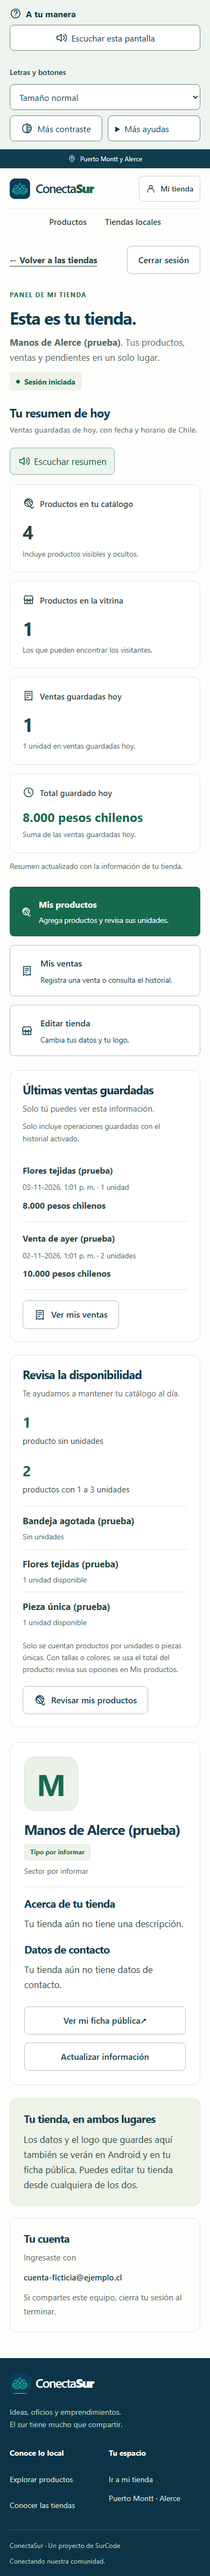
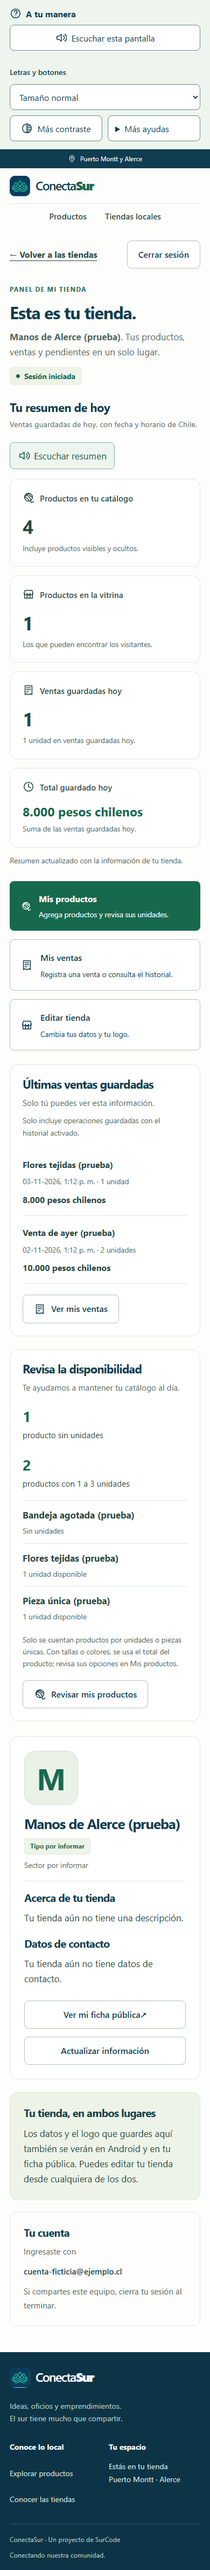
Quitar botón repetido de mi tienda

diff --git a/web/src/public-shops.js b/web/src/public-shops.js
@@ -30,7 +30,7 @@ function imageFallbacks(root) {
   });
 }
 
-function shell(content) {
+function shell(content, { showAccountLink = true } = {}) {
   const account=accountDestination();
   return `<div class="public-site">
     <a class="skip-link" href="#public-content">Ir al contenido</a>
@@ -38,12 +38,12 @@ function shell(content) {
     <header class="public-header">
       <a class="public-brand" href="#inicio" aria-label="ConectaSur, inicio">${brand()}</a>
       <nav class="public-main-links" aria-label="Explorar ConectaSur"><a href="#productos" data-section-link>Productos</a><a href="#tiendas" data-section-link>Tiendas locales</a></nav>
-      <nav class="public-navigation" aria-label="Acceso a tu cuenta">
+      ${showAccountLink ? `<nav class="public-navigation" aria-label="Acceso a tu cuenta">
         <a class="public-owner-link" data-account-link href="${account.href}">${icon('user')} <span data-account-label>${account.label}</span></a>
-      </nav>
+      </nav>` : ''}
     </header>
     <main id="public-content" tabindex="-1">${content}</main>
-    <footer class="public-footer"><div class="footer-intro"><a class="public-brand" href="#inicio" aria-label="ConectaSur, inicio">${brand()}</a><p>Ideas, oficios y emprendimientos.<br>El sur tiene mucho que compartir.</p></div><div><strong>Conoce lo local</strong><a href="#productos" data-section-link>Explorar productos</a><a href="#tiendas" data-section-link>Conocer las tiendas</a></div><div><strong>Tu espacio</strong><a data-account-link data-account-footer href="${account.href}"><span data-account-label>${account.footer}</span></a><span>Puerto Montt · Alerce</span></div><div class="footer-bottom"><span>ConectaSur · Un proyecto de SurCode</span><span>Conectando nuestra comunidad.</span></div></footer>
+    <footer class="public-footer"><div class="footer-intro"><a class="public-brand" href="#inicio" aria-label="ConectaSur, inicio">${brand()}</a><p>Ideas, oficios y emprendimientos.<br>El sur tiene mucho que compartir.</p></div><div><strong>Conoce lo local</strong><a href="#productos" data-section-link>Explorar productos</a><a href="#tiendas" data-section-link>Conocer las tiendas</a></div><div><strong>Tu espacio</strong>${showAccountLink ? `<a data-account-link data-account-footer href="${account.href}"><span data-account-label>${account.footer}</span></a>` : '<span>Estás en tu tienda</span>'}<span>Puerto Montt · Alerce</span></div><div class="footer-bottom"><span>ConectaSur · Un proyecto de SurCode</span><span>Conectando nuestra comunidad.</span></div></footer>
   </div>`;
 }
 

diff --git a/web/src/entrepreneur-access.js b/web/src/entrepreneur-access.js
@@ -135,7 +135,7 @@ export function showAccountAccess(app, db, isCurrent = () => true, showAdmin) {
         <div class="owner-actions"><a class="owner-secondary" href="#tienda/${escape(encodeURIComponent(shop.id))}">Ver mi ficha pública <span aria-hidden="true">↗</span></a><button class="owner-secondary" id="owner-refresh">Actualizar información</button></div>
       </div>
       <div class="owner-bottom"><section class="owner-update-help"><h2>Tu tienda, en ambos lugares</h2><p>Los datos y el logo que guardes aquí también se verán en Android y en tu ficha pública. Puedes editar tu tienda desde cualquiera de los dos.</p></section><section class="owner-account"><h2>Tu cuenta</h2><p>Ingresaste con</p><p class="owner-account-email">${escape(user.email)}</p><p>Si compartes este equipo, cierra tu sesión al terminar.</p></section></div>
-    </section>`);
+    </section>`, { showAccountLink: false });
     wireShopImages(app);
     app.querySelector('#owner-home-title').focus({ preventScroll: true });
     window.scrollTo(0, 0);

diff --git a/docs/entrega-4/dashboard-web.md b/docs/entrega-4/dashboard-web.md
@@ -5,7 +5,7 @@ Hito del 3 de noviembre de 2026. Continúa el diseño navy, verde y crema, las a
 ## Navegación
 
 - Sin sesión, la cabecera y el pie permiten Ingresar.
-- La emprendedora con sesión ve Mi tienda; el administrador, Mi panel. Los nombres y destinos se conservan en la portada, el directorio, las fichas y los editores.
+- En la portada, el directorio y las fichas públicas, la emprendedora con sesión ve Mi tienda; el administrador, Mi panel. Los editores conservan el enlace para regresar. El propio dashboard de emprendedora omite el enlace a Mi tienda de cabecera y pie porque ya está en ese espacio; mantiene Cerrar sesión.
 - Volver a las tiendas abre el directorio #tiendas con un clic. Mi tienda vuelve al dashboard sin pedir de nuevo correo o contraseña mientras la sesión sea válida.
 - El enlace funciona incluso desde un editor o listado que comparte el mismo hash. Se mantienen las confirmaciones si existen cambios sin guardar o ventas pendientes.
 - Recuperar foco comprueba la cuenta y tienda sin reemplazar el DOM de una pantalla válida. Las respuestas tardías no actualizan pantallas que ya se abandonaron.
